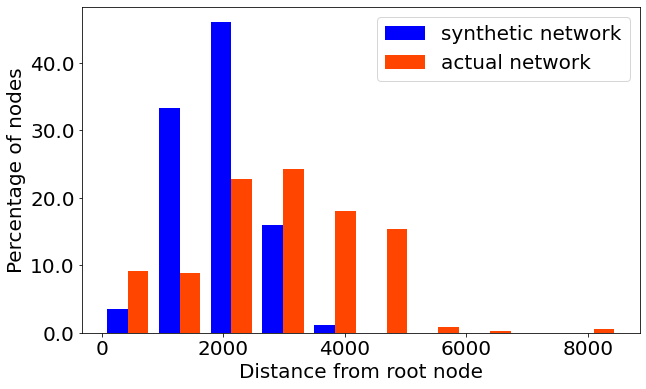
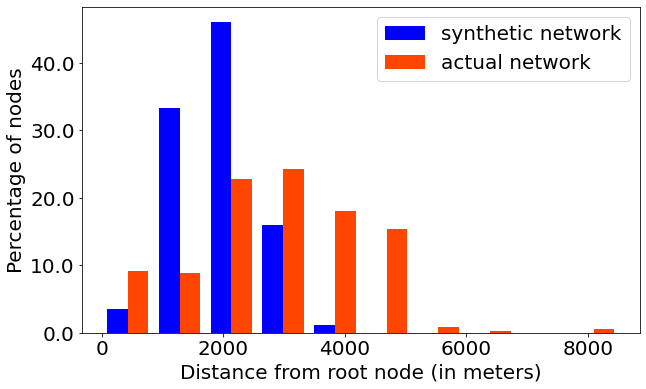
updated validate README

Changed region(s): [[0.2786, 0.9254, 0.8359, 0.9871]]

diff --git a/validate/README.md b/validate/README.md
@@ -1,0 +1,51 @@
+
+## Operational Validation
+In order to validate the generated synthetic networks, we obtained some regional power distribution networks from a distribution company. We compare the voltages at the residences when they are connected to the actual and synthetic network in Fig.~\ref{fig:validate-voltage-flow}. We call this *operational validity*: The basic idea is that if we substitute the actual network with the synthetic network, we should see minimal node voltage differences between the two. Here, the green lines signify $\pm1\%$ deviation from the voltages if the residences had been connected to the actual network. We observe that the residence voltages in the synthetic network remain within this $\pm1\%$ regulation, which validates our generated synthetic network. We also compare the edge flows in the two networks through the histogram in the following figure. Since the networks are radial in structure, the edge flows is proportional to the number of children nodes. The structural differences in the two networks explain the observed deviation in the edge flows of the networks.
+![png](figs/voltage-comparison.png) ![png](figs/flow-comparison.png)
+
+## Structural Validation
+In this section, we perform a visual comparison of the generated synthetic network to the actual network covering the same geographical region. At first sight, the two networks are adjacent to and almost overlap each other. The inset figure confirms this hypothesis. 
+![png](figs/structure-comparison.png)
+
+
+## Statistical Validation
+In this section, we compare the statistics of the generated network with that of the actual network. We consider a combination of various node and edge statistics for the comparison. They are (i) spatial distribution of nodes, (ii) length of network in miles, (iii) spatial distribution of graphlets/motifs etc. Let the actual and synthetic network for a particular geographical region be denoted by $\mathscr{G}_{act}(\mathscr{V}_{act},\mathscr{E}_{act})$ and $\mathscr{G}_{syn}(\mathscr{V}_{syn},\mathscr{E}_{syn})$ respectively. For each comparison, we divide this geographical area into multiple rectangular grids of equal sizes. We perform the statistical comparison over these rectangular grids, where in we consider the induced subgraph of the networks formed by the nodes lying in the grid. Therefore, for the grid along the $i^{th}$ row and $j^{th}$ column, let $\mathscr{V}^{ij}_{act}\subseteq\mathscr{V}_{act}$ denote the set of nodes in the actual network lying within the grid. Similarly, $\mathscr{V}^{ij}_{syn}\subseteq\mathscr{V}_{syn}$ denotes the set of nodes in the synthetic network contained in the grid. We perform the statistical comparisons of the induced subgraphs $\mathscr{G}^{ij}_{act}(\mathscr{V}^{ij}_{act},\mathscr{E}^{ij}_{act})$ and $\mathscr{G}^{ij}_{syn}(\mathscr{V}^{ij}_{syn},\mathscr{E}^{ij}_{syn})$.\\
+
+#### Spatial distribution of nodes
+First, we compare the distribution of nodes in each network. The percentage of the total number of nodes in the network is an indicator of the distribution of nodes. Therefore, we use the following metric to compare the node distribution for the grid along the $i^{th}$ row and $j^{th}$ column.
+\begin{equation}
+    \mathcal{M}^{(N)}_{ij}=\dfrac{\dfrac{|\mathscr{V}^{ij}_{act}|}{|\mathscr{V}_{act}|}-\dfrac{|\mathscr{V}^{ij}_{syn}|}{|\mathscr{V}_{syn}|}}{\dfrac{|\mathscr{V}^{ij}_{act}|}{|\mathscr{V}_{act}|}}\times 100
+\end{equation}
+The above metric can be used to denote the percentage deviation in the distribution of nodes in each rectangular grid. The following figure shows two separate grid resolutions and spatial comparison of node distribution for each resolution. The color code denotes the intensity of the percentage deviation in the distribution. Note that for some grids, the actual network data might be missing. In such cases, the comparison is not done and the grid is colored white. We notice that for most of the rectangular grids, the percentage deviation in the node distribution is fairly small. The large deviations observed at the bottom right and top right corners are primarily due to the absence of actual network data for those grids.
+![png](figs/spatial-comparison-5-5.png) ![png](figs/spatial-comparison-7-7.png)
+
+#### Comparison of network length
+We compare the network lengths in miles for each network. The percentage deviation is an indicator of the structural dissimilarities of the networks. Therefore, we use the following metric to compare the lengths of the induced network for the grid along the $i^{th}$ row and $j^{th}$ column.
+\begin{equation}
+    \mathcal{M}^{(L)}_{ij}=\dfrac{\sum_{e\in\mathscr{E}^{ij}_{act}}l_e-\sum_{e\in\mathscr{E}^{ij}_{syn}}l_e}{\sum_{e\in\mathscr{E}^{ij}_{act}}l_e}\times 100
+\end{equation}
+where $l_e$ is the length of the edge in miles. The above metric can be used to denote the percentage deviation in the network lengths in each rectangular grid. The following figure shows two separate grid resolutions and spatial comparison of network lengths for each resolution. The color code denotes the intensity of the percentage deviation. Note that for some grids, the actual network data might be missing. In such cases, the comparison is not done and the grid is colored white. The two networks are visually seen to almost overlap each other. Therefore, it is expected that the overall length of the networks would be fairly similar to each other. We observe that for the majority of the rectangular grids, the percentage deviation in the network lengths is fairly small.
+![png](figs/percent-length-comparison-5-5.png) ![png](figs/percent-length-comparison-7-7.png)
+
+#### Comparison of graphlets/motifs
+We consider graphlets/motifs in each network and compare their respective distributions. For example, we consider two graphlets of (i) four node chains and (ii) 7 node star shaped graphlet as shown in the following figure. For each rectangular grid, we compare the distribution of these 4 and 7 node graphlets/motifs and plot the deviation in the spatial distribution.
+
+We use the following expression for computing the percentage deviation.
+\begin{equation}
+    \mathcal{M}^{(M)}_{ij}=\dfrac{\dfrac{n^{ij}_{act}}{n_{act}}-\dfrac{n^{ij}_{syn}}{n_{syn}}}{\dfrac{n^{ij}_{act}}{n_{act}}}\times 100
+\end{equation}
+where $n_{act}$ and $n_{syn}$ are the total number of such motifs in the entire actual and synthetic networks respectively. The number of motifs in the grid along the $i^{th}$ row and $j^{th}$ column for either network are denoted by $n_{act}^{ij}$ and $n_{syn}^{ij}$. Note that the 4-node chain motifs are more common in the network than the 7-node star motifs. From the results, it is seen that the considered motifs (4-node chain and 7-node star) are almost equally distributed in the two networks.
+![png](figs/4-motif-comparison-graphlet-5-5.png) ![png](figs/4-motif-comparison-graphlet-7-7.png)
+![png](figs/7-motif-comparison-graphlet-10-10.png) ![png](figs/7-motif-comparison-graphlet-15-15.png)
+
+#### Degree Distribution
+We consider three separate sections of the two networks and compare the degree distribution for each section. We observe that the two distributions match each other very closely. We observe that the degree of the nodes ranges between $1$ and $4$ for either networks and the degree distribution shows that majority of nodes have a degree of $2$. This is also confirmed by our results where we compare the distribution of chain motifs in the networks.
+![png](figs/degree-distribution-194.png) ![png](figs/degree-distribution-9001.png) ![png](figs/degree-distribution-7001.png)
+
+#### Hop Distribution
+Next, we consider the hop distribution for the networks. This is an important analysis given the forest of tree structure of the networks. In this analysis we study how the nodes in each network are distributed around the root node. First, we compare the number of edges between each node and the root node or feeder node. We observe that the hop distribution almost follows a similar distribution to the edge flows which is shown in the beginning of this section. We have shown earlier that even though the spatial distribution of nodes in the networks are similar, the number of nodes in each network is different. Therefore, we consider the percentage of nodes at each hop rather than the absolute number of nodes for the comparison.
+![png](figs/hop-dist-194.png) ![png](figs/hop-dist-9001.png) ![png](figs/hop-dist-7001.png)
+
+#### Reach Distribution
+A better comparison would be the \emph{reach distribution} of each network where we compare how far (in meters) are the nodes in each network located from the root or feeder node. An interesting observation is that the actual network consists a large number of long edges. This is primarily because of the fact that the network has been built over multiple years as the population grew in the geographical location. However, the synthetic networks are generated using first principles and as an output of an optimization problem where the generated network has the minimum length (or requires minimal installation and maintenance cost).
+![png](figs/reach-dist-194.png) ![png](figs/reach-dist-9001.png) ![png](figs/reach-dist-7001.png)
